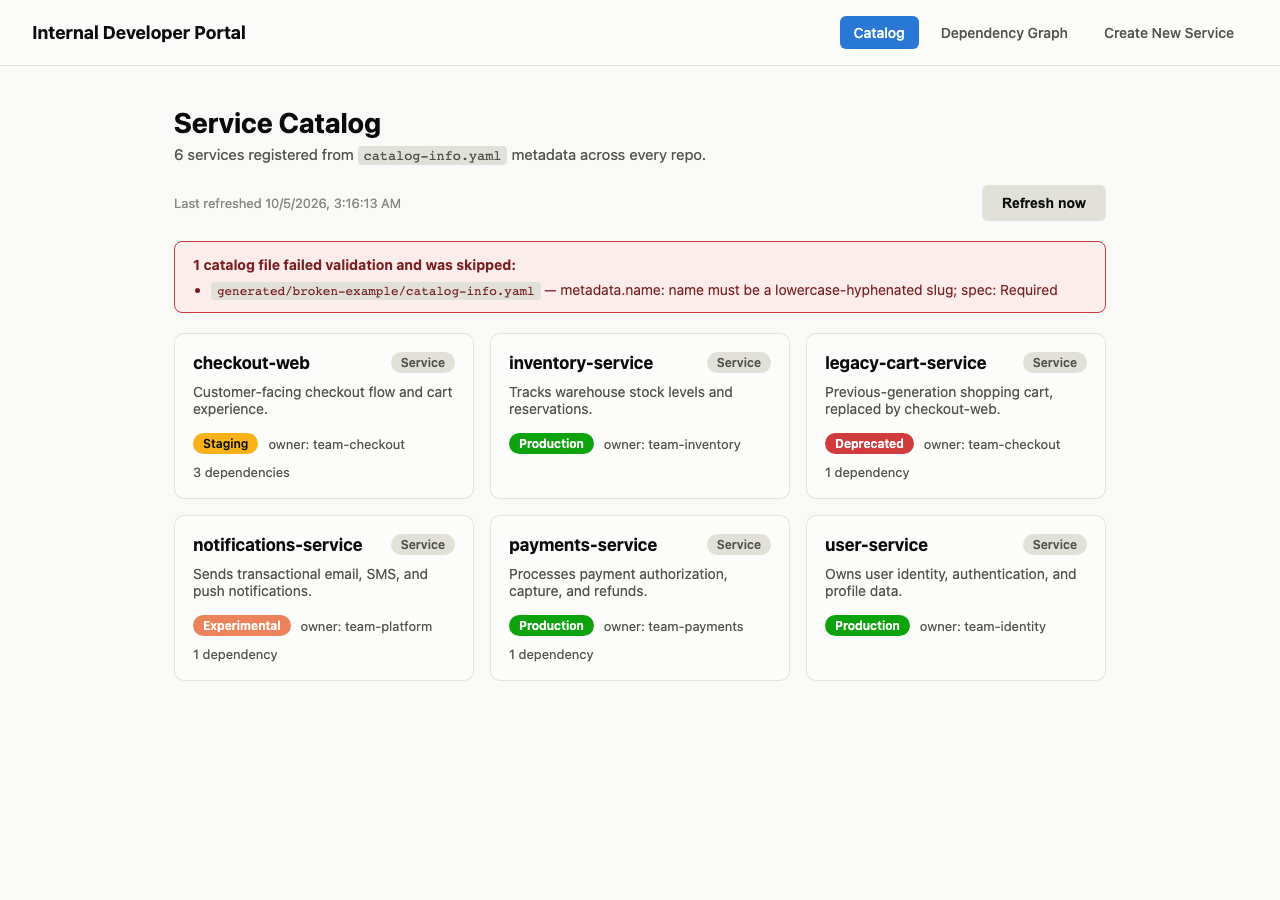
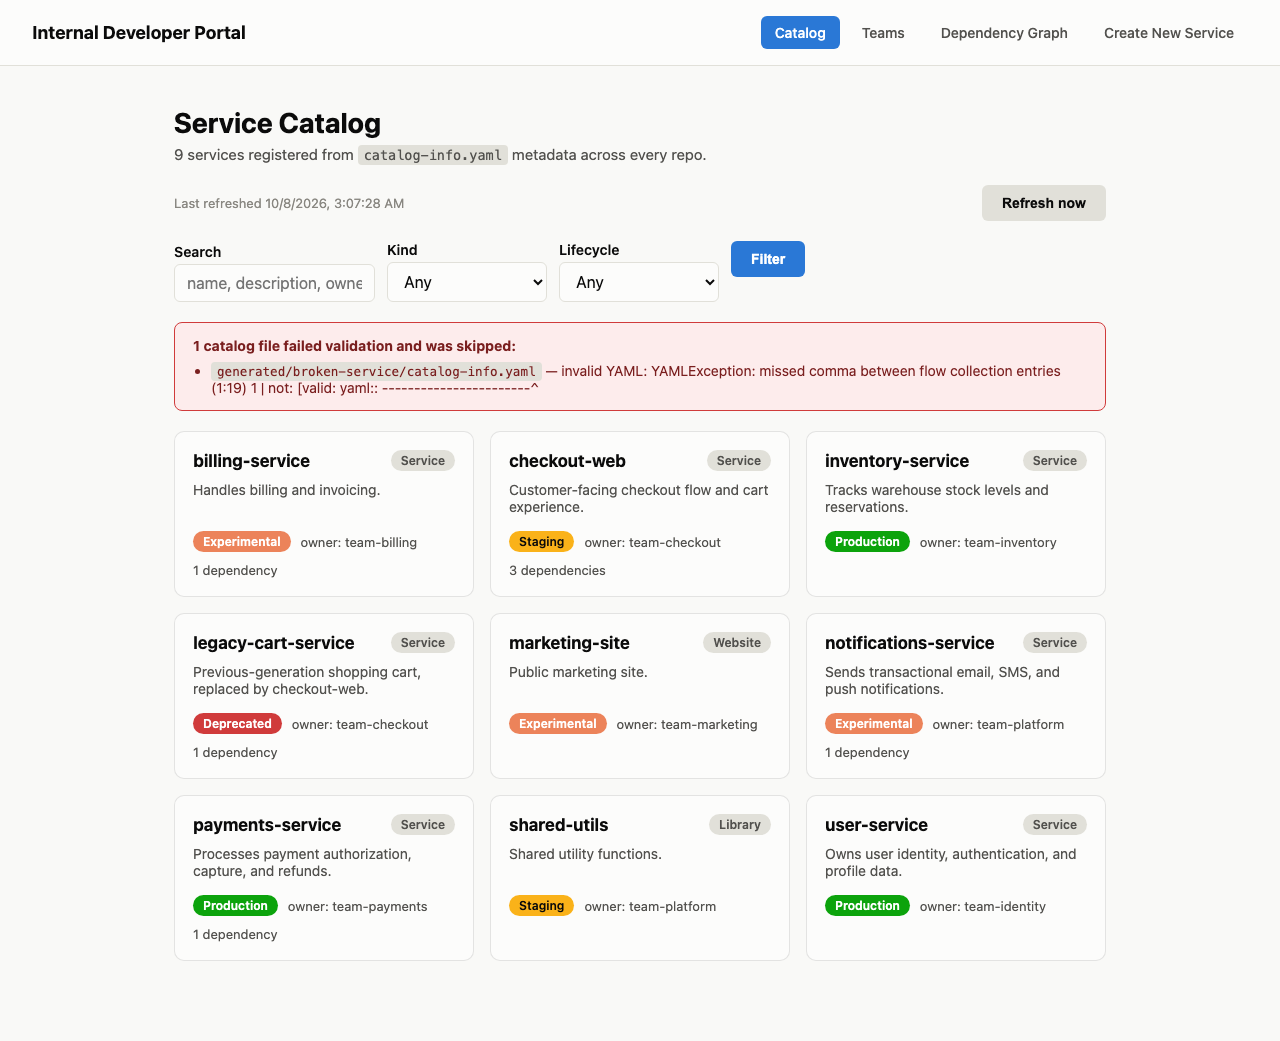
docs: cover Phase 5 in README and PROGRESS, add DAILY_REPORT
Recapture catalog-list screenshots to show the new filter bar, add a
filtered-view screenshot, and write DAILY_REPORT.md summarizing all
five nights. Phase 5 and the project overall are now complete; the
two items that need a real remote (deployed demo, scaffold-into-new-
repo) are recorded as permanently out of scope for this environment
rather than deferred.

diff --git a/PROGRESS.md b/PROGRESS.md
@@ -75,8 +75,9 @@ internal-dev-portal/
 no build step beyond `ts-node`) with four pages plus one action route:
 
 - `/` — the service catalog, cards with lifecycle/kind badges and ownership,
-  a "last refreshed" timestamp, a manual "Refresh now" button, and a banner
-  listing any catalog-info.yaml files that failed validation.
+  a "last refreshed" timestamp, a manual "Refresh now" button, a banner
+  listing any catalog-info.yaml files that failed validation, and a filter
+  bar (`?q=`/`?kind=`/`?lifecycle=`) over the loaded entries.
 - `/services/:name` — ownership, on-call rotation, a health panel
   (open-incident badge plus last-deploy time, or an empty state when the
   entry has no `health` block), and both directions of the dependency
@@ -98,8 +99,9 @@ no build step beyond `ts-node`) with four pages plus one action route:
   very next page load.
 - `POST /admin/refresh` — re-runs `store.refresh(sources)` and redirects back
   (defaults to `/`, accepts a same-origin-only `redirectTo`). This is the
-  button's target today; a repo webhook could POST to the same URL once
-  Phase 5 adds auth in front of it.
+  button's target today; a repo webhook could POST to the same URL. Gated
+  behind `requireAdminToken` (`ADMIN_TOKEN` env var, HTTP Basic auth) when
+  configured, same as the whole `/create` router.
 
 On-call rotation names (wherever they're rendered — service detail or a
 team page) go through `oncallLinks.escalationUrl`, which builds a deep link
@@ -215,31 +217,63 @@ drawing the `CatalogSource`/`Catalog` boundary where Phase 1 did.
         Website/Library badges side by side) — 14 screenshots total, all
         verified
 
-- [ ] **Phase 5 — Polish & deploy**
-  - [ ] Authentication (even a simple shared-secret gate) before this is
-        exposed beyond localhost
-  - [ ] Deployed demo instance + CI (lint, typecheck, test on every push)
-  - [ ] Search/filter on the catalog list; sort/group by owner or lifecycle
-  - [ ] Optional stretch (deferred from Phase 4): scaffold directly into a
-        new GitHub repo via the GitHub API instead of only into `generated/`
+- [x] **Phase 5 — Polish & deploy** *(tonight)*
+  - [x] Shared-secret admin gate: an optional `ADMIN_TOKEN` env var, checked
+        by `requireAdminToken` middleware (`packages/web/src/auth.ts`) via
+        HTTP Basic auth (token as password, username ignored — there's one
+        shared secret, not real accounts). Applied to the whole `/create`
+        router (both the form and the submit, so the browser's native
+        Basic-auth prompt fires before the user fills anything in) and to
+        `POST /admin/refresh`. Unset, every route stays open — identical to
+        pre-Phase-5 behavior, so this is additive, not a breaking change for
+        the existing localhost/demo flow.
+  - [x] Root `tsconfig.json` + `composite: true` on both packages' configs,
+        wired together with TypeScript project references, so `npm run
+        lint` (`tsc --build`) actually works from the repo root instead of
+        erroring on a missing root config (the bug flagged at the end of
+        last session). `@idp/web`'s own `tsc --noEmit` build script is
+        unchanged.
+  - [x] `.github/workflows/ci.yml`: `npm ci`, `npm run lint`, `npm test
+        --workspaces` on every push to `main` and every pull request.
+  - [x] Search/filter on the catalog list: `?q=` (matches name, description,
+        owner, or any tag, case-insensitively), `?kind=`, `?lifecycle=`,
+        combined with AND semantics. Implemented as `parseCatalogFilters`/
+        `filterCatalogEntries` in `catalogView.ts` — a filter over the
+        `CatalogEntry[]` the store already returns, no schema or storage
+        change. Plain GET query params, so a filtered view is a shareable/
+        bookmarkable URL, not something that needs client-side JS. The list
+        page shows "N of M services match" and a "Clear" link when a filter
+        is active, versus the plain count when it isn't.
+  - [x] Deliberately out of scope, not deferred: a deployed demo instance
+        and scaffolding directly into a new GitHub repo. Both need a real
+        remote target (a hosting provider, a GitHub org/token with repo-
+        create scope) that this environment's own ground rules exclude —
+        this project's nightly workflow is local-commits-only, no remote
+        repo creation, no pushing. The CI workflow file is committed and
+        correct but has never executed, for the same reason. If this
+        project ever gets a real remote, both are still exactly as
+        reasonable as they were when first scoped.
+  - [x] 10 new tests (admin-token gate on `/create` GET+POST and
+        `/admin/refresh`, unit tests for `parseCatalogFilters`/
+        `filterCatalogEntries` covering kind/lifecycle/search/AND-combination/
+        case-insensitivity, route-level filter tests for search/kind/
+        lifecycle and that submitted filter values round-trip into the
+        form) — 100 tests total (45 core + 55 web), all passing; both
+        packages type-check clean; root `tsc --build` clean.
+  - [x] 4 screenshots recaptured (`01`, `08`, `14` — every view of the
+        catalog list now shows the filter bar) and 1 new screenshot added
+        for an active filter (`?kind=Website`, showing the match-count copy
+        and the Clear-filters link) — 15 screenshots total, all verified.
 
 ## Where to resume (next session)
 
-Start **Phase 5 — Polish & deploy**. The concrete first step: authentication.
-Right now every route — including `POST /admin/refresh` and `POST /create`,
-both of which mutate state — is open to anyone who can reach the port. A
-simple shared-secret gate (an `ADMIN_TOKEN` env var checked via middleware,
-either a header on admin/create routes or a basic HTTP-auth prompt in front
-of the whole app) is enough for a localhost/demo deploy; a real identity
-provider is out of scope for this project's size. After that: a minimal CI
-workflow (`npm test` + `npx tsc --noEmit` in both packages on every push —
-note `npm run lint` at the root currently fails because there's no root
-`tsconfig.json` for `tsc --build`, worth fixing as part of wiring up CI
-rather than leaving each package to be checked by hand) and a deployed demo
-instance so the preview screenshots have a live companion. Search/filter on
-the catalog list is the lowest-risk, highest-visible-payoff item if there's
-time left after auth and CI — `catalog.list()` already returns the full
-`CatalogEntry[]`, so it's a client-side or query-param filter over data
-that's already there, no new backend plumbing needed.
+There is no next session to resume into under this project's own rules —
+Phase 5 closes out everything reachable without a real remote target, and
+the two items that do need one (deployed demo instance, scaffold-into-new-
+GitHub-repo) are recorded above as permanently out of scope for this
+environment rather than deferred. If this project picks back up with a real
+GitHub org/token and a hosting target available, those two are the entire
+remaining backlog — everything else (catalog, ownership/on-call, golden
+paths, auth, CI, search/filter) is built, tested, and documented.
 
-STATUS: IN_PROGRESS
+STATUS: COMPLETE

diff --git a/DAILY_REPORT.md b/DAILY_REPORT.md
@@ -1,0 +1,104 @@
+# Daily Report
+
+A summary of what was built each night, final test results, known
+limitations, and ideas for future work. See [PROGRESS.md](PROGRESS.md) for
+the detailed, phase-by-phase technical writeup this report summarizes.
+
+## What was built, by night
+
+**Night 1 — Scaffold & core foundation.** npm-workspaces monorepo
+(`@idp/core`, `@idp/web`). Zod schema for `catalog-info.yaml`, a YAML loader
+that collects validation errors instead of crashing on a bad file, a
+dependency-graph builder with cycle detection and topological sort, and a
+golden-path template engine (`{{variable}}` substitution, refuses to
+overwrite an existing output directory). Six example services modeling a
+small e-commerce org. A server-rendered Express UI: catalog list, service
+detail, dependency graph (hand-laid-out SVG), and a self-service create
+flow. 37 tests, 7 verified screenshots.
+
+**Night 2 — Persistence & real-world ingestion.** A `CatalogSource`
+abstraction so the catalog can load from more than a local directory tree:
+`LocalDirectorySource` (unchanged) and `GitHubRepoSource` (fetches
+`catalog-info.yaml` from a configurable list of repos via the GitHub
+Contents API, injectable fetch so tests never touch the network). Swapped
+"reload on every request" for a SQLite-backed `CatalogStore` — reads are
+persisted-snapshot reads; the catalog only changes on an explicit
+`refresh()` (startup, an interval scheduler, or the new `POST
+/admin/refresh` button). Validation errors surfaced as a banner on the
+catalog list. 59 tests, 8 screenshots.
+
+**Night 3 — Ownership & on-call depth.** `/teams` and `/teams/:owner` pages
+grouping services by `spec.owner` at render time (no new "team" entity in
+the schema). Team pages aggregate on-call rotations and roll up open
+incidents / most recent deploy. An optional `spec.health` block
+(`lastDeployAt`, `openIncidents`) renders as a color-coded panel on service
+detail, with an explicit empty state when a service reports none. On-call
+rotation names become deep links into PagerDuty/Opsgenie schedule search
+when `PAGERDUTY_SUBDOMAIN`/`OPSGENIE_ORG` is configured, plain text
+otherwise. 78 tests, 11 screenshots.
+
+**Night 4 — Golden paths, plural.** Three real golden-path templates
+(`golden-path-service`, `-website`, `-library`), each shaped for how that
+kind actually gets used — a website template with a `serve`-based `dev`
+script, a library template with no `dev` script at all. `options.templateDir`
+became `options.templateDirs` keyed by kind; a "Kind" selector in the create
+form picks which one renders. The template engine itself needed zero
+changes. 82 tests, 14 screenshots.
+
+**Night 5 — Polish.** A shared-secret `ADMIN_TOKEN` gate (HTTP Basic auth)
+in front of the whole `/create` flow and `POST /admin/refresh`, off by
+default so a plain localhost run is unaffected. A root `tsconfig.json` with
+TypeScript project references so `npm run lint` (`tsc --build`) actually
+works across both packages, fixing a bug flagged at the end of Night 4.
+A GitHub Actions CI workflow (lint + full test suite on every push/PR).
+Search/filter on the catalog list (`?q=`/`?kind=`/`?lifecycle=`, shareable
+as a plain URL, no client-side JS). 100 tests, 15 screenshots.
+
+## Final test results
+
+```
+@idp/core: 45 tests passing (schema, source, catalog, store, scheduler, graph, template)
+@idp/web:  55 tests passing (oncallLinks, catalogView filters, full route/integration suite)
+Total:     100 tests passing, 0 failing
+Type-check: clean (root `tsc --build` across both packages via project references)
+```
+
+## Known limitations
+
+- **No real identity provider.** `ADMIN_TOKEN` is a single shared secret
+  checked via HTTP Basic auth — enough to keep a localhost/demo deploy from
+  being wide open, not a substitute for real user accounts, roles, or audit
+  logging. Fine for this project's scope; would need replacing before any
+  real multi-user deployment.
+- **On-call escalation links are a URL pattern, not a live integration.**
+  `oncallLinks.escalationUrl` builds a deep link into a provider's schedule
+  *search*, not a resolved schedule — there's no real PagerDuty/Opsgenie
+  account behind this demo to verify against or call an API for.
+- **Template variables are substitution-only.** No conditionals or loops in
+  `{{variable}}` templates — never needed them across three golden paths,
+  but a template requiring per-dependency loops (e.g. rendering a config
+  block per `dependsOn` entry) would need the engine extended first.
+- **No deployed instance.** The CI workflow file is committed and correct
+  but has never run, and there's no hosted demo — both need a real remote
+  (a GitHub remote to push to, a hosting target to deploy to), which this
+  project's nightly workflow deliberately never sets up (local commits
+  only, no remote repo creation). See PROGRESS.md's Phase 5 section for the
+  full reasoning.
+- **No pagination or sort order on the catalog list.** Filtering narrows
+  the list but there's no explicit sort (services render alphabetically by
+  name, the one order `Catalog.list()` has ever returned) and no pagination
+  — fine at demo scale (single digits to low tens of services), would need
+  addressing well before hundreds.
+
+## Future ideas
+
+- Deploy a live demo instance once a real remote/hosting target exists, and
+  point CI's badge at it.
+- Scaffold `/create` directly into a new GitHub repo via the GitHub API
+  (needs a repo-create-scoped token) instead of only into `generated/`.
+- Sort/group the catalog list by owner or lifecycle, not just filter it.
+- Real identity (OAuth/SSO) in front of the admin surface instead of a
+  single shared token.
+- A repo webhook on push to `catalog-info.yaml` that calls `POST
+  /admin/refresh` automatically, so the catalog stays current without
+  anyone pressing the button or waiting for the interval scheduler.

diff --git a/README.md b/README.md
@@ -7,9 +7,11 @@ service" flow wired to a golden-path template.
 
 ## Project Status
 
-This is a multi-night build, in progress. See [PROGRESS.md](PROGRESS.md) for
-the full architecture writeup, the phased build plan, and exactly where work
-resumes next.
+This is a multi-night build. All five phases are complete — catalog,
+ownership/on-call, golden paths, and polish (auth, CI, search/filter). See
+[PROGRESS.md](PROGRESS.md) for the full architecture writeup and phased build
+history, and [DAILY_REPORT.md](DAILY_REPORT.md) for a summary of what was
+built each night, test results, and known limitations.
 
 ## Preview
 
@@ -44,6 +46,12 @@ template directory, not just a different `catalog-info.yaml` value.
 ![Service created from the website golden path, listing its generated files](docs/screenshots/13-create-success-website.png)
 
 ![Catalog list showing Service, Website, and Library kind badges side by side](docs/screenshots/14-catalog-list-mixed-kinds.png)
+
+**Search & filter** — the catalog list filters by free-text search (name,
+description, owner, tags) and by `Kind`/`Lifecycle`, all via plain GET query
+params (`?q=&kind=&lifecycle=`), so a filtered view is a shareable URL.
+
+![Catalog list filtered to kind=Website, showing a 1-of-8 match count and a Clear-filters link](docs/screenshots/15-catalog-list-filtered.png)
 
 **Scaffold result** — the real files generated on disk and registered in the
 catalog immediately.
@@ -109,7 +117,16 @@ An npm-workspaces monorepo with two TypeScript packages:
   owner — and roll up each team's open incidents and on-call rotations.
   When `PAGERDUTY_SUBDOMAIN` or `OPSGENIE_ORG` is set, on-call rotation
   names render as links into that provider's schedule search instead of
-  plain text.
+  plain text. The catalog list supports `?q=`/`?kind=`/`?lifecycle=` query-
+  param filtering over the already-loaded `CatalogEntry[]` — no new backend
+  plumbing, just a filter over data the store already has. When `ADMIN_TOKEN`
+  is set, `/create` and `POST /admin/refresh` are gated behind HTTP Basic
+  auth (the token as the password, any username); unset, every route stays
+  open, matching pre-Phase-5 behavior for a localhost demo.
+
+A GitHub Actions workflow (`.github/workflows/ci.yml`) runs `npm run lint`
+(a root `tsc --build` across both packages via TypeScript project references)
+and the full test suite on every push and pull request.
 
 Full details, including the source/store abstraction boundary, are in
 [PROGRESS.md](PROGRESS.md).
@@ -136,6 +153,7 @@ CATALOG_GITHUB_REPOS=acme/widgets,acme/sprockets@main   # owner/repo[@ref], comm
 GITHUB_TOKEN=ghp_...                   # only needed for private repos / higher rate limits
 PAGERDUTY_SUBDOMAIN=acme               # turns pagerduty rotations into schedule-search links
 OPSGENIE_ORG=acme                      # turns opsgenie rotations into schedule-search links
+ADMIN_TOKEN=some-shared-secret         # when set, gates /create and POST /admin/refresh behind Basic auth
 ```
 
 ## Running tests
@@ -147,20 +165,26 @@ npm test
 Runs the full suite for both packages: catalog/schema/source/store/scheduler/
 graph/template unit tests in `@idp/core`, and route-level integration tests
 (including the full create-service flow, the explicit refresh route, team
-pages, and on-call escalation links) in `@idp/web`. The GitHub source is
-tested with an injected fetch function, so the suite never makes a real
-network call.
+pages, on-call escalation links, catalog search/filter, and the admin-token
+gate) in `@idp/web`. The GitHub source is tested with an injected fetch
+function, so the suite never makes a real network call.
+
+```sh
+npm run lint   # tsc --build across both packages, via root tsconfig.json project references
+```
 
 ## Repository layout
 
 ```
+.github/workflows/ci.yml  lint + test on every push/PR
 packages/core/            catalog schema, sources, SQLite store, scheduler, dependency graph, template engine
-packages/web/             Express app: catalog UI, service detail, graph, create flow, admin refresh
+packages/web/             Express app: catalog UI, service detail, graph, create flow, admin refresh, auth
 catalog/examples/         example catalog-info.yaml fixtures (stand-ins for "other repos")
 templates/golden-path-service/   golden path for kind: Service
 templates/golden-path-website/   golden path for kind: Website
 templates/golden-path-library/   golden path for kind: Library
 generated/                where self-service "create new service" writes new services
 docs/screenshots/         screenshots used in this README
+tsconfig.json              root project-reference config, used by `npm run lint`
 catalog.db                 (gitignored) persisted catalog snapshot, created on first run
 ```
